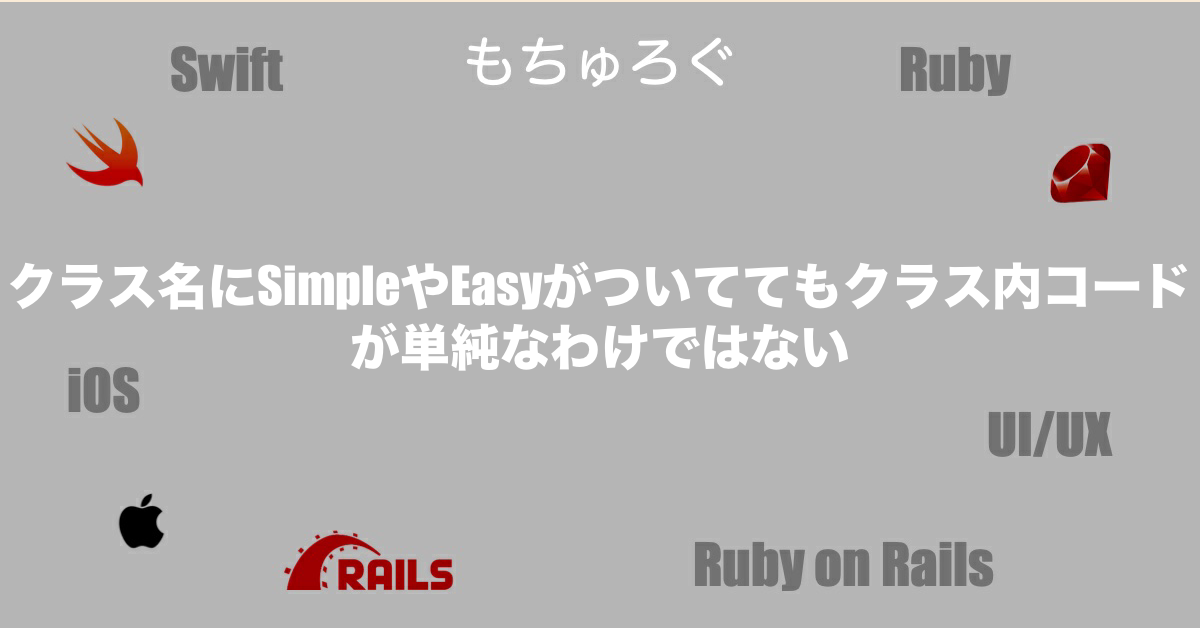
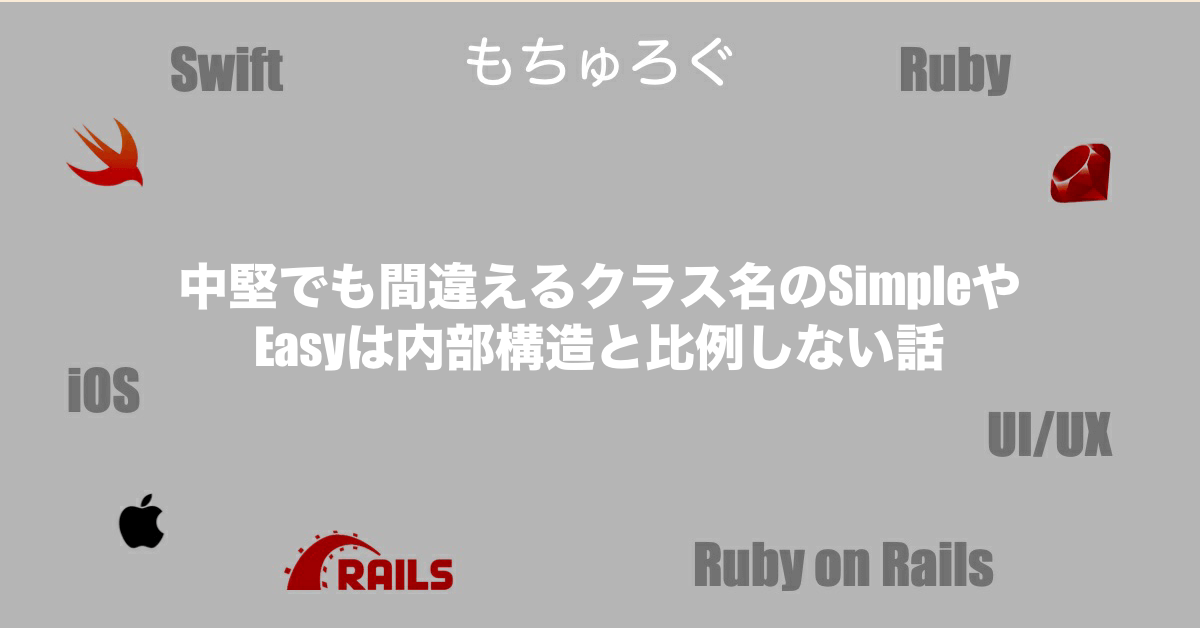
Deploy:

Changed region(s): [[0.0, 0.4236, 0.9867, 0.6051]]

diff --git a/docs/notebook/program-design/design-simple-class-is-not-simple-code.html b/docs/notebook/program-design/design-simple-class-is-not-simple-code.html
@@ -11,15 +11,15 @@
 
 
     
-      <title>クラス名にSimpleやEasyがついててもクラス内コードが単純なわけではない - もちゅろぐ</title>
+      <title>中堅でも間違えるクラス名のSimpleやEasyは内部構造と比例しない話 - もちゅろぐ</title>
     
 
     <!-- Begin Jekyll SEO tag v2.5.0 -->
 <meta name="generator" content="Jekyll v3.8.5" />
-<meta property="og:title" content="クラス名にSimpleやEasyがついててもクラス内コードが単純なわけではない" />
+<meta property="og:title" content="中堅でも間違えるクラス名のSimpleやEasyは内部構造と比例しない話" />
 <meta property="og:locale" content="ja_JP" />
-<meta name="description" content="複雑な処理を扱いやすくするために動作のみを公開し、複雑な処理は内部化させることで簡易性を出すクラスはよく見かけます。 そんなクラス名には簡単とい評してSimpleとかEasyといったネーミングがつくこともあると思います。" />
-<meta property="og:description" content="複雑な処理を扱いやすくするために動作のみを公開し、複雑な処理は内部化させることで簡易性を出すクラスはよく見かけます。 そんなクラス名には簡単とい評してSimpleとかEasyといったネーミングがつくこともあると思います。" />
+<meta name="description" content="クラス名にSimpleとかEasyが入っていても、内部構造が単純とは限りません" />
+<meta property="og:description" content="クラス名にSimpleとかEasyが入っていても、内部構造が単純とは限りません" />
 <link rel="canonical" href="https://blog.mothule.com/notebook/program-design/design-simple-class-is-not-simple-code" />
 <meta property="og:url" content="https://blog.mothule.com/notebook/program-design/design-simple-class-is-not-simple-code" />
 <meta property="og:site_name" content="もちゅろぐ" />
@@ -29,14 +29,14 @@
 <meta name="twitter:card" content="summary_large_image" />
 <meta name="twitter:site" content="@mothule" />
 <script type="application/ld+json">
-{"headline":"クラス名にSimpleやEasyがついててもクラス内コードが単純なわけではない","dateModified":"2020-04-08T04:40:50+09:00","datePublished":"2018-10-21T00:00:00+09:00","url":"https://blog.mothule.com/notebook/program-design/design-simple-class-is-not-simple-code","image":"https://blog.mothule.com/assets/images/2018-10-21-design-simple-class-is-not-simple-code.png","mainEntityOfPage":{"@type":"WebPage","@id":"https://blog.mothule.com/notebook/program-design/design-simple-class-is-not-simple-code"},"description":"複雑な処理を扱いやすくするために動作のみを公開し、複雑な処理は内部化させることで簡易性を出すクラスはよく見かけます。 そんなクラス名には簡単とい評してSimpleとかEasyといったネーミングがつくこともあると思います。","@type":"BlogPosting","@context":"http://schema.org"}</script>
+{"headline":"中堅でも間違えるクラス名のSimpleやEasyは内部構造と比例しない話","dateModified":"2020-04-26T16:13:49+09:00","datePublished":"2018-10-21T00:00:00+09:00","url":"https://blog.mothule.com/notebook/program-design/design-simple-class-is-not-simple-code","image":"https://blog.mothule.com/assets/images/2018-10-21-design-simple-class-is-not-simple-code.png","mainEntityOfPage":{"@type":"WebPage","@id":"https://blog.mothule.com/notebook/program-design/design-simple-class-is-not-simple-code"},"description":"クラス名にSimpleとかEasyが入っていても、内部構造が単純とは限りません","@type":"BlogPosting","@context":"http://schema.org"}</script>
 <!-- End Jekyll SEO tag -->
 
 
     
     
-    <meta name="twitter:title" content="クラス名にSimpleやEasyがついててもクラス内コードが単純なわけではない">
-    <meta name="twitter:description" content="複雑な処理を扱いやすくするために動作のみを公開し、複雑な処理は内部化させることで簡易性を出すクラスはよく見かけます。そんなクラス名には簡単とい評してSimpleとかEasyといったネーミングがつくこともあると思います。">
+    <meta name="twitter:title" content="中堅でも間違えるクラス名のSimpleやEasyは内部構造と比例しない話">
+    <meta name="twitter:description" content="クラス名にSimpleとかEasyが入っていても、内部構造が単純とは限りません">
     <meta name="twitter:image:src" content="https://blog.mothule.com/assets/images/2018-10-21-design-simple-class-is-not-simple-code.png">
 
     <link href="https://stackpath.bootstrapcdn.com/bootstrap/4.3.1/css/bootstrap.min.css"
@@ -142,7 +142,7 @@
         
         
           <li>
-            クラス名にSimpleやEasyがついててもクラス内コードが単純なわけではない
+            中堅でも間違えるクラス名のSimpleやEasyは内部構造と比例しない話
           </li>
         
       
@@ -156,12 +156,12 @@
 
   
     <div class="eye-catch">
-      <img style="width: 100%; object-fix: contain;" src="/assets/images/2018-10-21-design-simple-class-is-not-simple-code.png" alt="クラス名にSimpleやEasyがついててもクラス内コードが単純なわけではない">
+      <img style="width: 100%; object-fix: contain;" src="/assets/images/2018-10-21-design-simple-class-is-not-simple-code.png" alt="中堅でも間違えるクラス名のSimpleやEasyは内部構造と比例しない話">
     </div>
   
 
   <div class="post-content-title border-bottom mb-4">
-    <h1>クラス名にSimpleやEasyがついててもクラス内コードが単純なわけではない</h1>
+    <h1>中堅でも間違えるクラス名のSimpleやEasyは内部構造と比例しない話</h1>
 
     <div class="post-content-tags">
       <ul class="list-inline">
@@ -178,51 +178,70 @@
   <div class="post-content-toc">
     <p>Table of Contents</p>
     <ul>
-  <li><a href="#提供してる機能自体がシンプル">提供してる機能自体がシンプル</a></li>
-  <li><a href="#提供してる機能の使い方がシンプル">提供してる機能の使い方がシンプル</a></li>
-  <li><a href="#保持してるデータ構造の名前がシンプル">保持してるデータ構造の名前がシンプル</a></li>
+  <li><a href="#クラス名は特徴や総称役割を表すもの">クラス名は特徴や総称、役割を表すもの</a></li>
+  <li><a href="#simpleやeasyにおいてクラス名は体を表すとは限らない">SimpleやEasyにおいてクラス名は体を表すとは限らない</a>
+    <ul>
+      <li><a href="#提供してる機能自体がシンプル">提供してる機能自体がシンプル</a></li>
+      <li><a href="#提供してる機能の使い方がシンプル">提供してる機能の使い方がシンプル</a></li>
+      <li><a href="#ラッピング対象がシンプルとネーミングしてる">ラッピング対象が「シンプル」とネーミングしてる</a></li>
+    </ul>
+  </li>
 </ul>
   </div>
   <section>
-  <p>複雑な処理を扱いやすくするために動作のみを公開し、複雑な処理は内部化させることで簡易性を出すクラスはよく見かけます。
-そんなクラス名には簡単とい評してSimpleとかEasyといったネーミングがつくこともあると思います。</p>
+  <p><strong>クラス名にSimpleとかEasyが入っていても、内部構造が単純とは限りません</strong></p>
 
-<p>クラス名は目的やできることや塊を表現する。<br />
-そのためクラス名にSimpleやEasyがついてる場合</p>
+<h2 id="クラス名は特徴や総称役割を表すもの">クラス名は特徴や総称、役割を表すもの</h2>
+<p><strong>「やりたいことが単純でも実現方法がめんどくさい」</strong> ケースはたくさんあります。
+iOSアプリエンジニアが読者だとSwiftだと日付制御や文字列制御というと納得できると思います。</p>
+
+<p>例えば下記のような場面に出くわす人は多いのではないでしょうか。</p>
+
+<ul>
+  <li>あるSDKやライブラリが使いにくい</li>
+  <li>公開されているIFが低レイヤーのみでプロダクトで使うには手続きが多くなり呼出元には無関係な情報が漏れ出てしまい、関心事の分離ができなくなるし、可読性やメンテナンス性に影響を与えかねない。</li>
+  <li>他場所でも使うと一瞬にしてたちの悪いDRY違反が生まれる</li>
+</ul>
+
+<p>そして、大抵はリファクタリング活動として、次のクラスを構築する方も多いのではないでしょうか。</p>
+
+<p>複雑な処理を扱いやすくするために動作のみを公開。複雑な処理は内部化させることで簡易性を出すクラスを用意することで上記問題を解決。そんなクラス名には特徴として「複雑→シンプル」による簡易性が強みなのでSimpleとかEasyといったネーミングがつくこともあります。</p>
+
+<p>それとは別に簡単な動作のみしか提供していない機能自体がシンプルといった意味合いでSimpleといったネーミングがつくこともあります。</p>
+
+<h2 id="simpleやeasyにおいてクラス名は体を表すとは限らない">SimpleやEasyにおいてクラス名は体を表すとは限らない</h2>
+<p>そのためクラス名にSimpleやEasyがついてる場合は次のいずれかによりネーミングされていることになります。</p>
 
 <ol>
-  <li>提供してる機能自体がシンプル</li>
-  <li>提供してる機能の使い方がシンプル</li>
-  <li>保持してるデータ構造の名前が「シンプル」とネーミングされている</li>
+  <li>提供してる<strong>機能自体</strong>がシンプル</li>
+  <li>提供してる<strong>機能の使い方</strong>がシンプル</li>
+  <li>ラッピング対象が「シンプル」とネーミングしてる</li>
 </ol>
 
-<p>と少なくとも３つの解釈ができる。</p>
+<p>少なくとも3つの意味があります。</p>
 
-<p>ここで、クラス名にSimpleだからといってクラス内コードがシンプルと思うのは、<br />
-設計において</p>
+<p>ここで「クラス名にSimpleだからといってクラス内コードがシンプル」と決めつけるのは、設計観点において</p>
 
 <ul>
   <li>「できること」とその「実現方法」の隠蔽化による <strong>関心ごとの分離</strong> を理解できていない</li>
   <li>クラス名の活用意図を間違えている</li>
 </ul>
 
-<p>と言える。どの解釈においてもコードがシンプルと断言には至らない。</p>
-
-<p>「3.がそうじゃないのか？」と思っても、仕様・要件上「シンプルな方」だからシンプルと名付けてるだけであって 絶対にコードがシンプルになるわけではない。</p>
-
-<p>データ構造がシンプルだからコードもシンプルと言うのは、偶然コードもシンプルになりやすいだけである。</p>
+<p>と言えてしまいます。</p>
 
 <h3 id="提供してる機能自体がシンプル">提供してる機能自体がシンプル</h3>
 
-<p>何か高機能なサービスをラッパーして使いたい機能のみを提供するクラスなどによく見かける。</p>
+<p>何か高機能なサービスをラッパーして使いたい機能のみを提供するクラスなどによく見かける。
+汎用性を殺し特化することでコードをシンプルにし可読性を上げる場合に作られるかと思います。</p>
 
 <h3 id="提供してる機能の使い方がシンプル">提供してる機能の使い方がシンプル</h3>
 
 <p>スレッド操作や並列処理、直接扱おうとするとコードが複雑になり、ボイラープレートコードなどで埋め尽くされるのを１つのクラスに隠蔽化することで、手段を簡単に扱えるようにさせる場合に使われやすい。</p>
 
-<h3 id="保持してるデータ構造の名前がシンプル">保持してるデータ構造の名前がシンプル</h3>
+<h3 id="ラッピング対象がシンプルとネーミングしてる">ラッピング対象が「シンプル」とネーミングしてる</h3>
+<p>単純にクラス内に閉じ込めたい対象が「シンプル」とついてるだけです。</p>
 
-<p>データクラスにおいて保持するデータ構造の名前が「シンプル」とついてる。つまりドメイン用語でシンプルとついてる。</p>
+<p>またシンプルと名付けられてるからといっても、絶対にコードがシンプルなわけではありません。単なる偶然です。</p>
 
   </section>
 

diff --git a/docs/page4/index.html b/docs/page4/index.html
@@ -231,9 +231,9 @@
 
   <div class="article thumbnail">
   <a href="/notebook/program-design/design-simple-class-is-not-simple-code">
-    <img src="/assets/images/2018-10-21-design-simple-class-is-not-simple-code.png" alt="クラス名にSimpleやEasyがついててもクラス内コードが単純なわけではない" style="width: 340px; object-fit: contain;">
+    <img src="/assets/images/2018-10-21-design-simple-class-is-not-simple-code.png" alt="中堅でも間違えるクラス名のSimpleやEasyは内部構造と比例しない話" style="width: 340px; object-fit: contain;">
     <div class="caption">
-      <h2>クラス名にSimpleやEasyがついててもクラス内コードが単純なわけではない</h2>
+      <h2>中堅でも間違えるクラス名のSimpleやEasyは内部構造と比例しない話</h2>
       <ul class="list-inline">
         <li class="list-inline-item secondary-text">2018-10-21</li>
         

diff --git a/docs/tags.html b/docs/tags.html
@@ -176,7 +176,7 @@
         
           <li>
             <a href="/notebook/program-design/design-simple-class-is-not-simple-code">
-              クラス名にSimpleやEasyがついててもクラス内コードが単純なわけではない
+              中堅でも間違えるクラス名のSimpleやEasyは内部構造と比例しない話
             </a>
           </li>
         
@@ -223,7 +223,7 @@
         
           <li>
             <a href="/notebook/program-design/design-simple-class-is-not-simple-code">
-              クラス名にSimpleやEasyがついててもクラス内コードが単純なわけではない
+              中堅でも間違えるクラス名のSimpleやEasyは内部構造と比例しない話
             </a>
           </li>
         

diff --git a/docs/ios/ios-how-to-find-good-lib.html b/docs/ios/ios-how-to-find-good-lib.html
@@ -852,7 +852,7 @@ Pull requests を投げてもなかなか承認されないという問題リス
                 
                 
                 
-                    <li><h3><a href="/notebook/program-design/design-simple-class-is-not-simple-code">クラス名にSimpleやEasyがついててもクラス内コードが単純なわけではない</a></h3></li>
+                    <li><h3><a href="/notebook/program-design/design-simple-class-is-not-simple-code">中堅でも間違えるクラス名のSimpleやEasyは内部構造と比例しない話</a></h3></li>
                     
                     
                 
